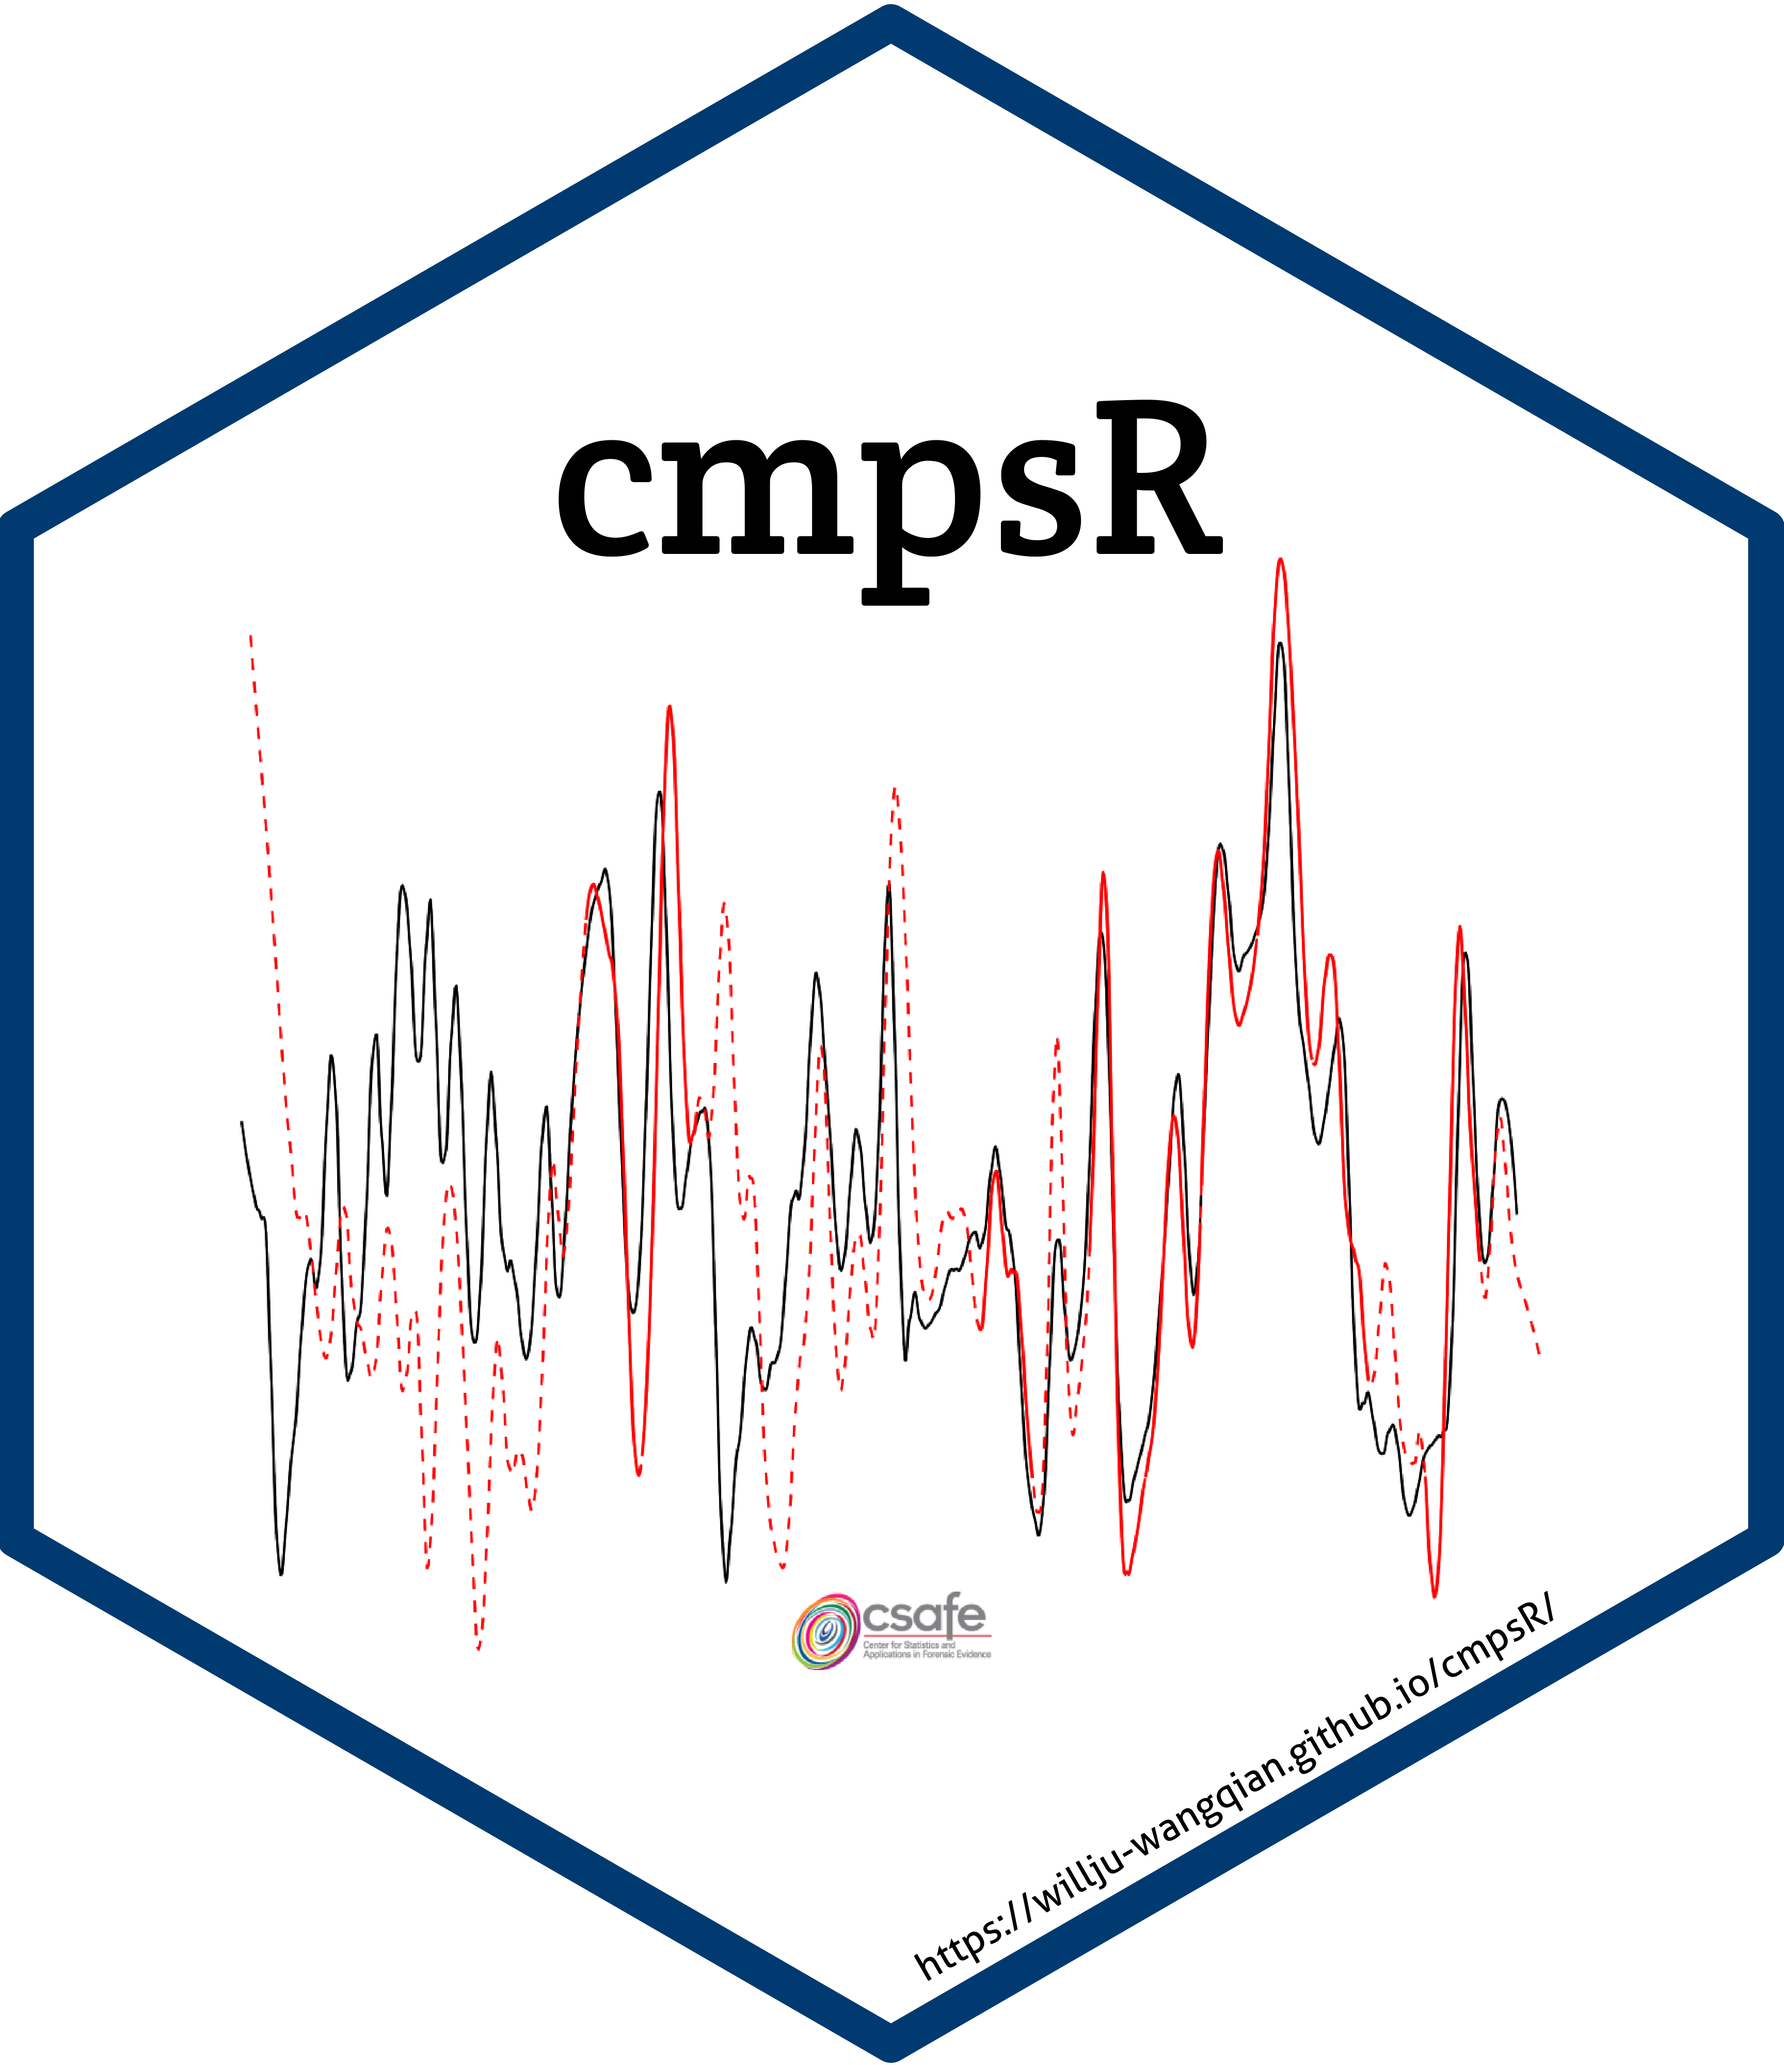
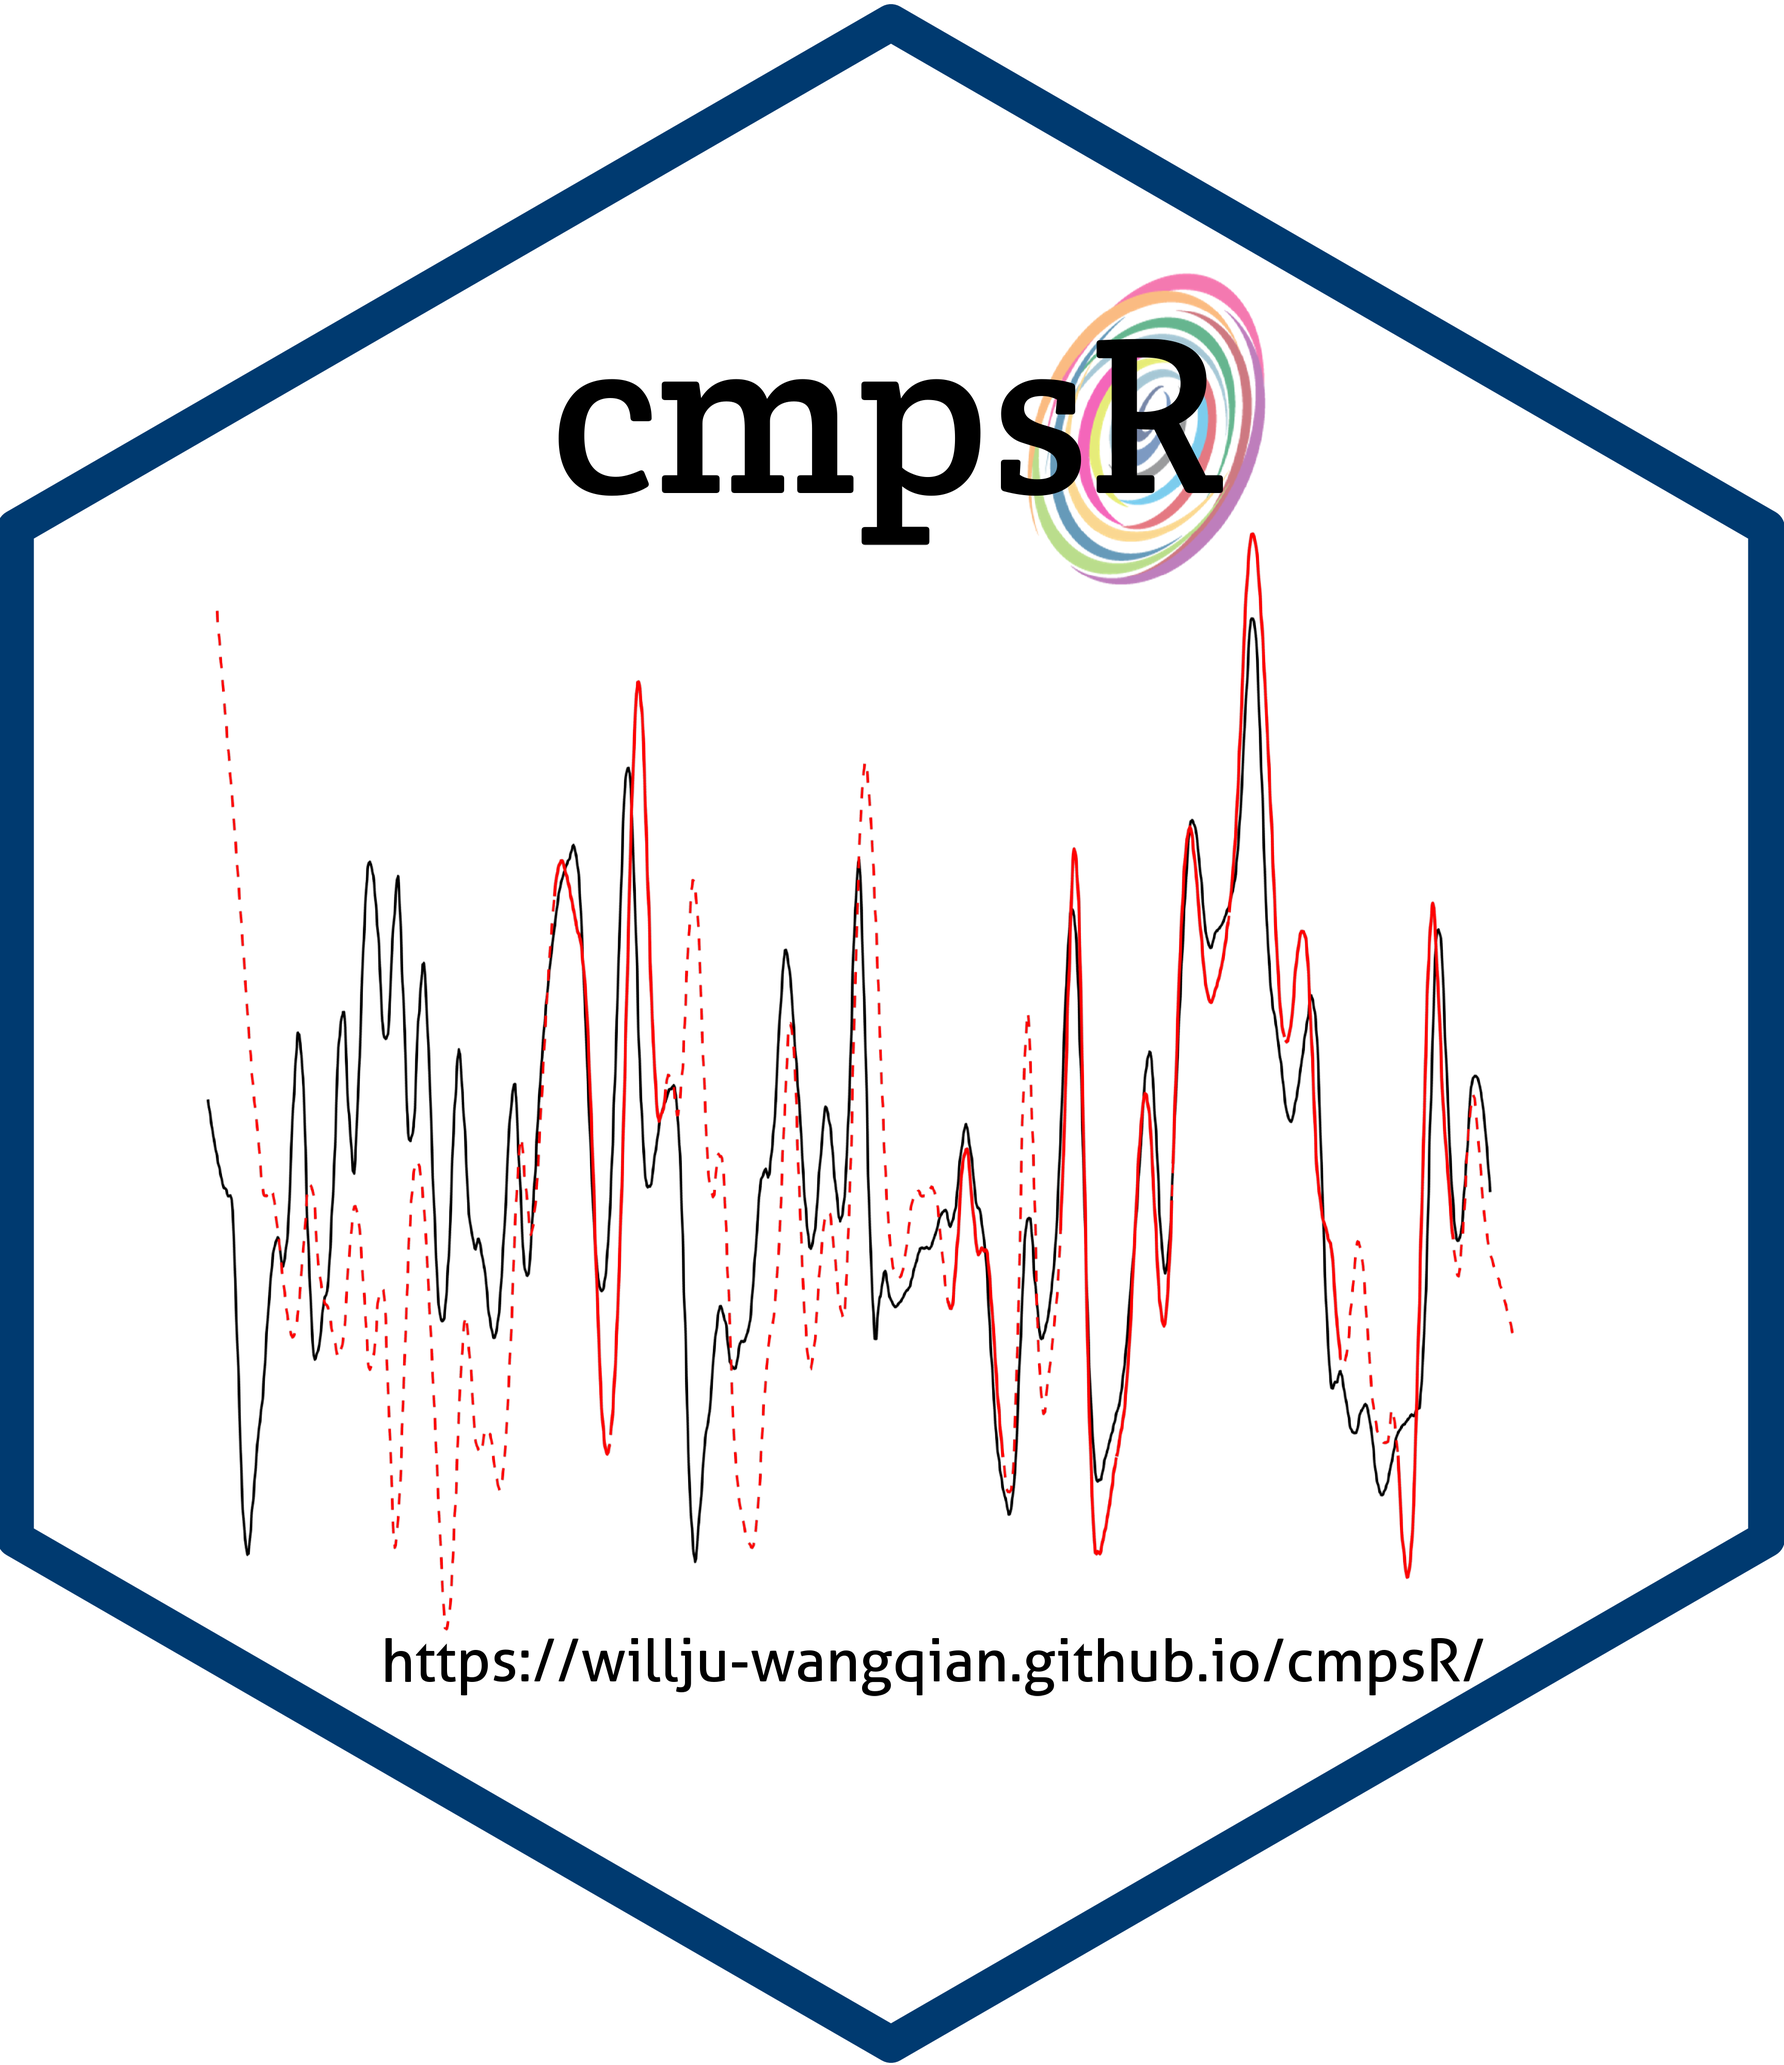
move hex to a new location

diff --git a/README.md b/README.md
@@ -1,7 +1,7 @@
 
 <!-- README.md is generated from README.Rmd. Please edit that file -->
 
-# cmpsR <img src="man/figures/cmpsR_hex.png" width="160px" align="right" />
+# cmpsR <img src="docs/cmpsR_hex.png" width="160px" align="right" />
 
 <!-- badges: start -->
 
